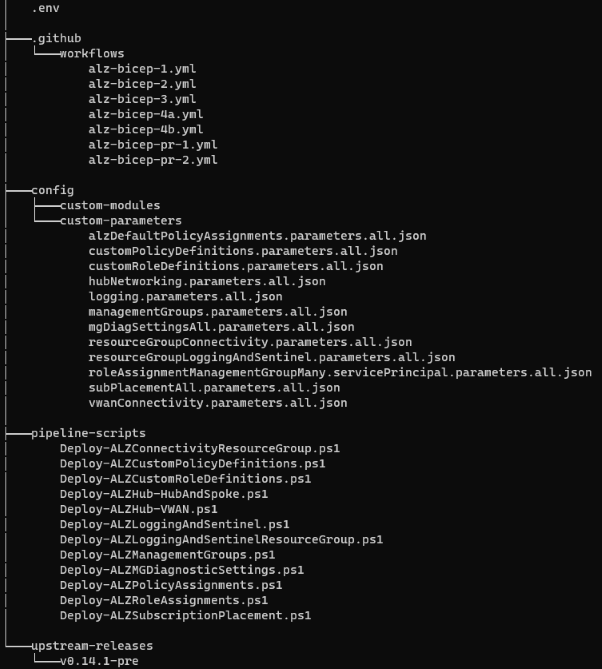
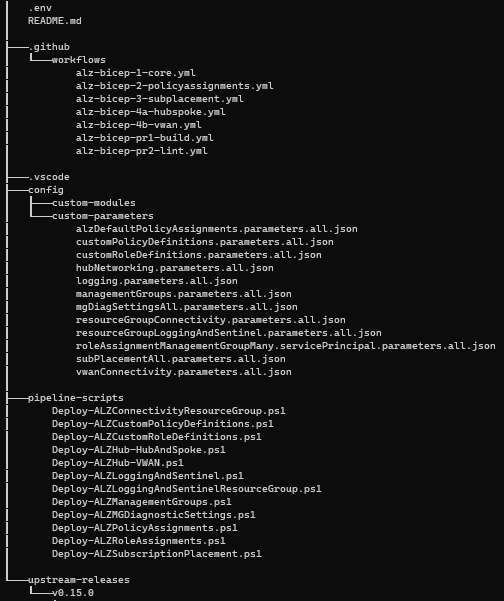
PR for Feature #537: Simplify workflow names in Accelerator (#578)
* Added release documentation and diagram

* Adjust Accelerator file names for clarity

* Merge branch 'main' of https://github.com/Azure/ALZ-Bicep into simplify-names

* Revert change for hub networking param file

Changed region(s): [[0.0, 0.0, 0.9821, 1.0]]

diff --git a/docs/wiki/Accelerator.md b/docs/wiki/Accelerator.md
@@ -36,13 +36,13 @@ We attempted to make the pipelines as flexible as possible while also reducing o
 
 The only thing that differs across the workflows is which ALZ Bicep modules are deployed as shown in the following table:
 
-| Workflow Name            | Modules Deployed              |
+| Workflow/Pipeline Name            | Modules Deployed              |
 |------------------------- |-------------------------------|
-| ALZ-Bicep-1 Workflow | Management Groups Deployment, Logging and Sentinel Resource Group Deployment, Logging and Sentinel Deployment, Custom Policy Definitions Deployment, Custom Management Group Diagnostic Settings
-| ALZ-Bicep-2 Workflow | Built-in and Custom Policy Assignments Deployment
-| ALZ-Bicep-3 Workflow | Deploy Subscription Placement
-| ALZ-Bicep-4a Workflow | Connectivity Resource Group Deployment, Hub (Hub-and-Spoke) Deployment
-| ALZ-Bicep-4b Workflow | Connectivity Resource Group Deployment, Hub (VWAN) Deployment
+| ALZ-Bicep-1-Core | Management Groups Deployment, Logging and Sentinel Resource Group Deployment, Logging and Sentinel Deployment, Custom Policy Definitions Deployment, Custom Management Group Diagnostic Settings
+| ALZ-Bicep-2-PolicyAssignments | Built-in and Custom Policy Assignments Deployment
+| ALZ-Bicep-3-SubPlacement| Deploy Subscription Placement
+| ALZ-Bicep-4A-HubSpoke| Connectivity Resource Group Deployment, Hub (Hub-and-Spoke) Deployment
+| ALZ-Bicep-4B-VWAN | Connectivity Resource Group Deployment, Hub (VWAN) Deployment
 
 ### Getting Started if you're using GitHub Actions
 
@@ -80,8 +80,8 @@ In order to setup the Accelerator framework with the production GitHub Action Wo
     > **Note:**
     > If the directory structure specified for the output location does not exist, the module will create the directory structure programatically.
 1. Depending upon your preferred [network topology deployment](https://github.com/Azure/Enterprise-Scale/wiki/ALZ-Setup-azure#2-grant-access-to-user-andor-service-principal-at-root-scope--to-deploy-enterprise-scale-reference-implementation),  remove the associated workflow file for each deployment model
-    - Traditional VNet Hub and Spoke = .github\workflows\alz-bicep-4a.yml
-    - Virtual WAN = .github\workflows\alz-bicep-4b.yml
+    - Traditional VNet Hub and Spoke = .github\workflows\alz-bicep-4a-hubspoke.yml
+    - Virtual WAN = .github\workflows\alz-bicep-4b-vwan.yml
 
     > **Note:**
     > These workflow files and associated deployment scripts will be programatically removed in the future.
@@ -131,10 +131,10 @@ In order to setup the Accelerator framework with the production GitHub Action Wo
     1. [Create RBAC Assignment for the application/service principal](https://github.com/Azure/Enterprise-Scale/wiki/ALZ-Setup-azure#2-grant-access-to-user-andor-service-principal-at-root-scope--to-deploy-enterprise-scale-reference-implementation)
 
 1. All workflows are now ready to be deployed! For the initial deployment, manually trigger each workflow in the following order
-    1. ALZ-Bicep-1 Workflow
-    1. ALZ-Bicep-2 Workflow
-    1. ALZ-Bicep-3 Workflow
-    1. ALZ-Bicep-4a Workflow or ALZ-Bicep-4b Workflow
+    1. ALZ-Bicep-1-Core
+    1. ALZ-Bicep-2-PolicyAssignments
+    1. ALZ-Bicep-3-SubPlacement
+    1. ALZ-Bicep-4A-HubSpoke or ALZ-Bicep-4B-VWAN
 
 1. As part of the [branching strategy](#incoporating-a-branching-strategy), setup the branch protection rules against the main branch with the following selected as a starting point:
 
@@ -179,8 +179,8 @@ In order to setup the Accelerator framework with the production ready Azure DevO
     > **Note:**
     > If the directory structure specified for the output location does not exist, the module will create the directory structure programatically.
 1. Depending upon your preferred [network topology deployment](https://github.com/Azure/Enterprise-Scale/wiki/ALZ-Setup-azure#2-grant-access-to-user-andor-service-principal-at-root-scope--to-deploy-enterprise-scale-reference-implementation),  remove the associated workflow file for each deployment model
-    - Traditional VNet Hub and Spoke = .azuredevops\workflows\alz-bicep-4a.yml
-    - Virtual WAN = .azuredevops\workflows\alz-bicep-4b.yml
+    - Traditional VNet Hub and Spoke = .azuredevops\workflows\alz-bicep-4a-hubspoke.yml
+    - Virtual WAN = .azuredevops\workflows\alz-bicep-4b-vwan.yml
 
     > **Note:**
     > These workflow files and associated deployment scripts will be programatically removed in the future.
@@ -227,10 +227,10 @@ In order to setup the Accelerator framework with the production ready Azure DevO
 1. [Assign pipeline permissions to access the Service Connection you created previously](https://learn.microsoft.com/en-us/azure/devops/pipelines/library/service-endpoints?view=azure-devops&tabs=yaml#pipeline-permissions)    ```
 
 1. All pipelines are now ready to be deployed! For the initial deployment, manually trigger each workflow in the following order
-    1. ALZ-Bicep-1 Workflow
-    1. ALZ-Bicep-2 Workflow
-    1. ALZ-Bicep-3 Workflow
-    1. ALZ-Bicep-4a Workflow or ALZ-Bicep-4b Workflow
+    1. ALZ-Bicep-1-Core
+    1. ALZ-Bicep-2-PolicyAssignments
+    1. ALZ-Bicep-3-SubPlacement
+    1. ALZ-Bicep-4A-HubSpoke or ALZ-Bicep-4B-VWAN
 
 1. As part of the [branching strategy](#incoporating-a-branching-strategy), setup the branch protection rules against the main branch with the following selected as a starting point:
 
@@ -254,8 +254,8 @@ As part of the framework, we include two PR workflows. The pipelines will perfor
 
 | Workflow Name           | Trigger   | Tasks               |
 |-------------------------|-----------|---------------------|
-| ALZ-Bicep-PR-1 Workflow | Pull request against main branch and changes to any Bicep file or Bicep config file.             | Checks to see if there are any modified or custom modules residing within the config\custom-modules directory and if so, the workflow will lint the modules and ensure they can compile.
-| ALZ-Bicep-PR-2 Workflow | Pull request against main branch. | Using [Super-Linter](https://github.com/github/super-linter), the workflow will lint everything in the codebase apart from the Bicep modules/files.
+| ALZ-Bicep-PR1-Build | Pull request against main branch and changes to any Bicep file or Bicep config file.             | Checks to see if there are any modified or custom modules residing within the config\custom-modules directory and if so, the workflow will lint the modules and ensure they can compile.
+| ALZ-Bicep-PR2-Lint | Pull request against main branch. | Using [Super-Linter](https://github.com/github/super-linter), the workflow will lint everything in the codebase apart from the Bicep modules/files.
 
 ### Upgrading ALZ-Bicep Versions
 
